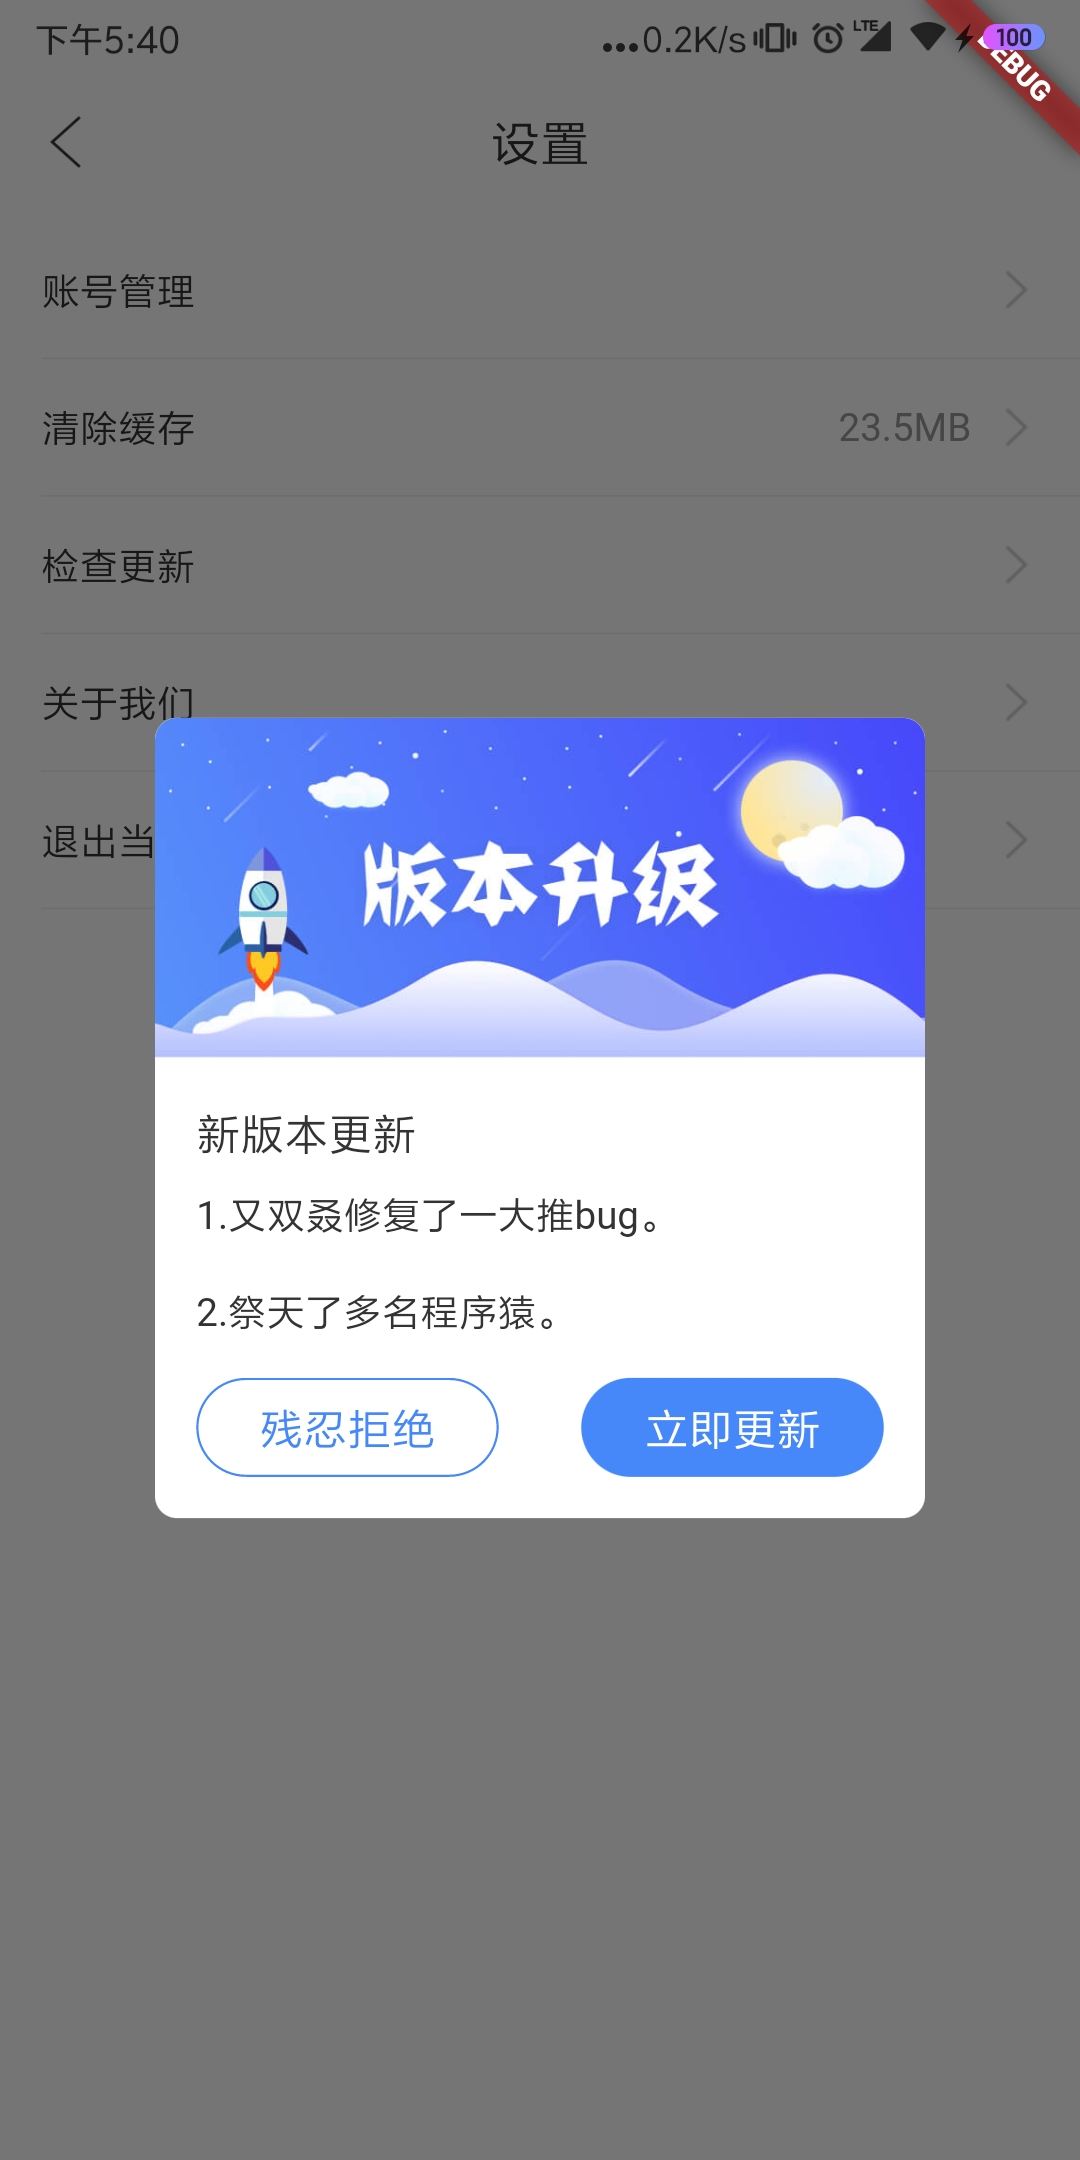
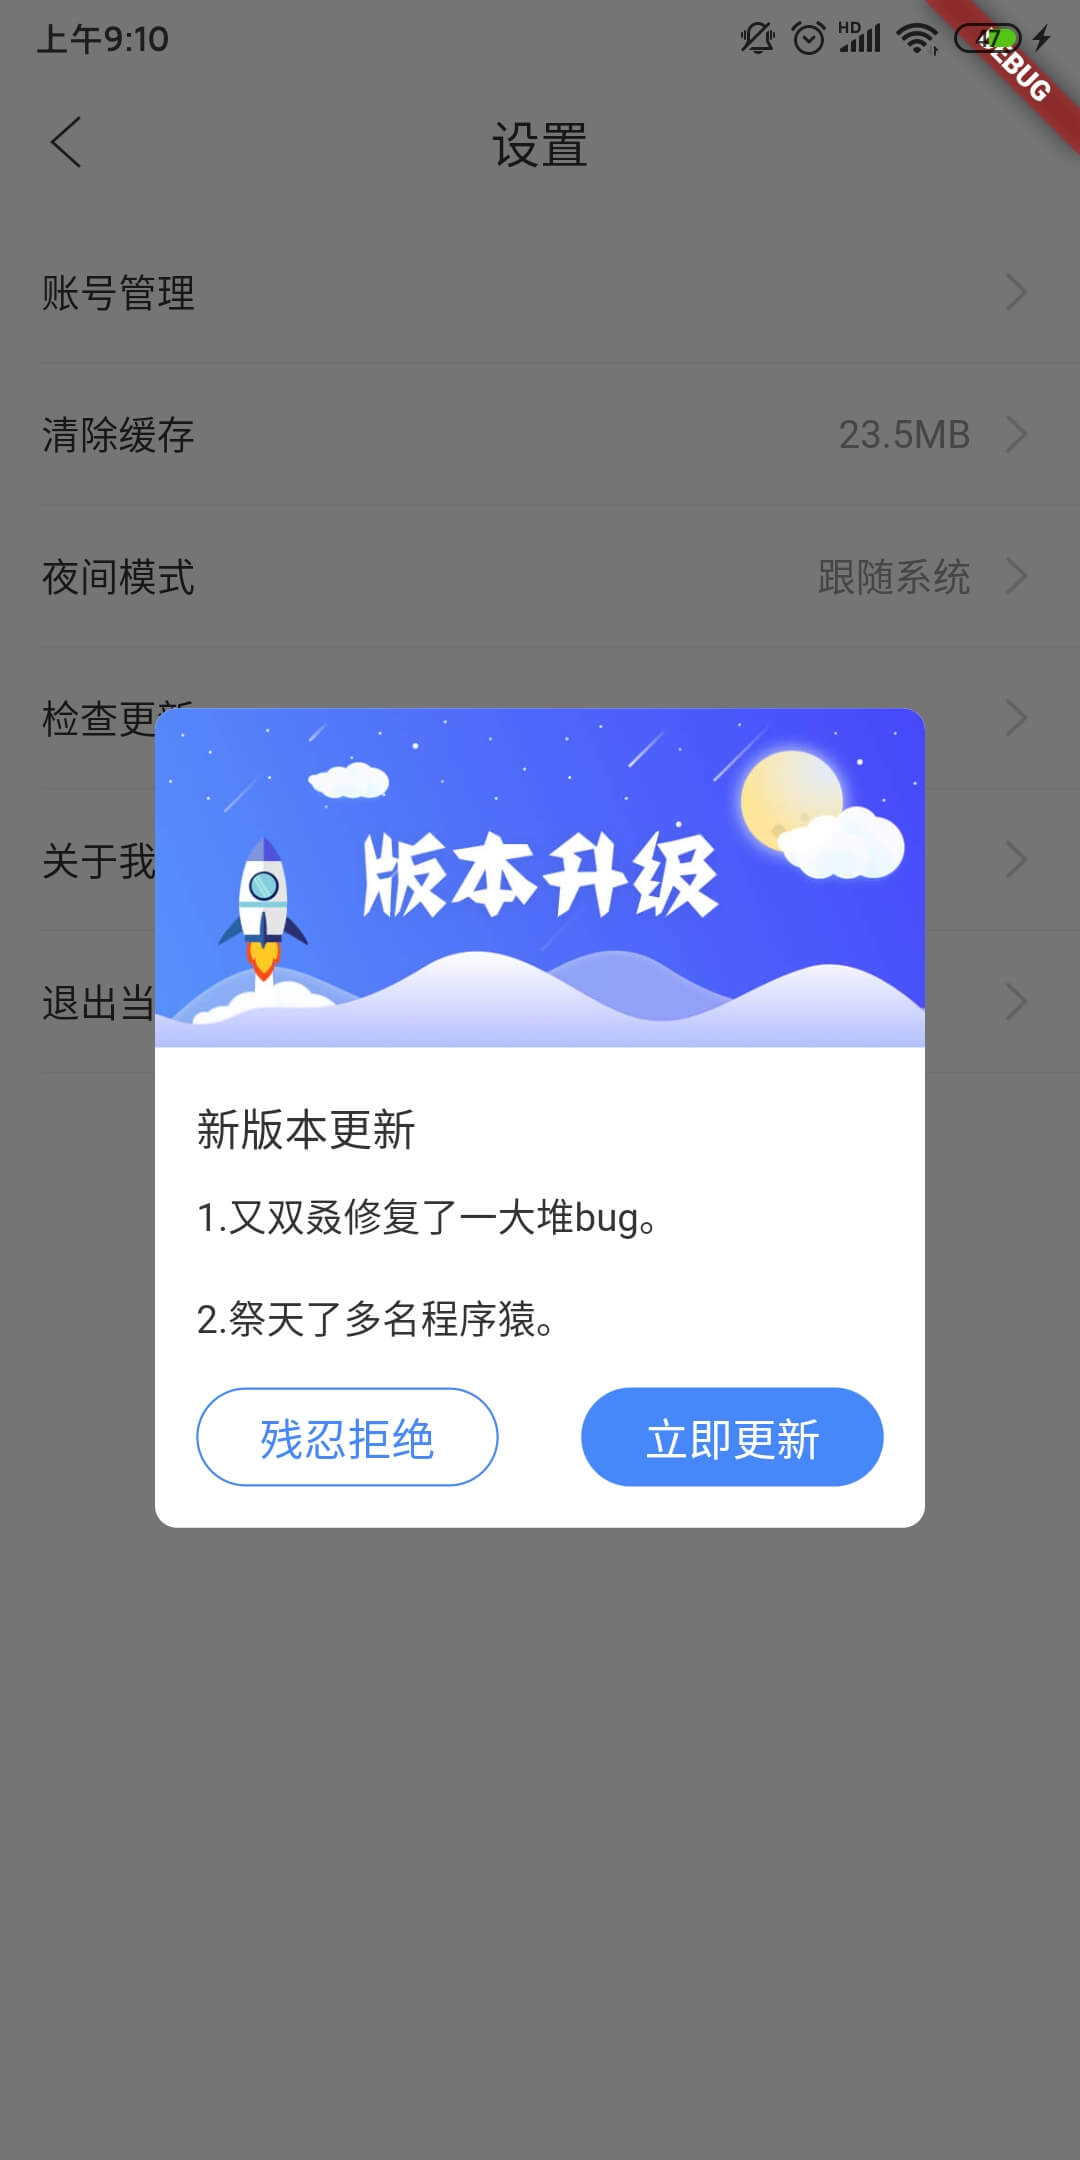
日常优化

diff --git a/lib/res/styles.dart b/lib/res/styles.dart
@@ -51,34 +51,18 @@ class TextStyles {
     fontSize: Dimens.font_sp14,
     color: Colours.text_gray,
   );
-  static const TextStyle textGray16 = const TextStyle(
-    fontSize: Dimens.font_sp16,
-    color: Colours.text_gray,
-  );
-  static const TextStyle textGrayC12 = const TextStyle(
-    fontSize: Dimens.font_sp12,
-    color: Colours.text_gray_c,
-  );
-  static const TextStyle textGrayC14 = const TextStyle(
-    fontSize: Dimens.font_sp14,
-    color: Colours.text_gray_c,
-  );
-
   static const TextStyle textWhite14 = const TextStyle(
     fontSize: Dimens.font_sp14,
     color: Colors.white,
   );
-
   static const TextStyle textWhite12 = const TextStyle(
     fontSize: Dimens.font_sp12,
     color: Colors.white,
   );
-
   static const TextStyle textDark12 = const TextStyle(
     fontSize: Dimens.font_sp12,
     color: Colours.text_dark,
   );
-
   static const TextStyle textDark14 = const TextStyle(
     fontSize: Dimens.font_sp14,
     color: Colours.text_dark,

diff --git a/lib/provider/theme_provider.dart b/lib/provider/theme_provider.dart
@@ -35,13 +35,17 @@ class ThemeProvider extends ChangeNotifier {
       brightness: isDarkMode ? Brightness.dark : Brightness.light,
       primaryColor: Colours.app_main,
       accentColor: Colours.app_main,
+      // Tab指示器颜色
       indicatorColor: Colours.app_main,
+      // 背景色
       canvasColor: isDarkMode ? Colours.dark_bg_color : Colors.white,
+      // 文字选择色（输入框复制粘贴菜单）
       textSelectionColor: Colours.app_main.withAlpha(70),
       textSelectionHandleColor: Colours.app_main,
       textTheme: TextTheme(
         // TextField输入文字颜色
         subhead: isDarkMode ? TextStyles.textWhite14 : TextStyles.textDark14,
+        // Text文字样式
         body1: isDarkMode ? TextStyles.textWhite14 : TextStyles.textDark14,
       ),
       inputDecorationTheme: InputDecorationTheme(

diff --git a/lib/order/page/order_page.dart b/lib/order/page/order_page.dart
@@ -154,10 +154,7 @@ class _OrderPageState extends State<OrderPage> with AutomaticKeepAliveClientMixi
                       controller: _tabController,
                       labelColor: Utils.isDark(context) ? Colors.white : Colours.text_dark,
                       unselectedLabelColor: Utils.isDark(context) ? Colours.text_gray : Colours.text_dark,
-                      labelStyle: const TextStyle(
-                        fontSize: Dimens.font_sp14,
-                        fontWeight: FontWeight.bold
-                      ),
+                      labelStyle: TextStyles.textBold14,
                       unselectedLabelStyle: const TextStyle(
                         fontSize: Dimens.font_sp14,
                       ),

diff --git a/lib/goods/page/goods_page.dart b/lib/goods/page/goods_page.dart
@@ -122,10 +122,7 @@ class _GoodsPageState extends State<GoodsPage> with SingleTickerProviderStateMix
                 },
                 isScrollable: true,
                 controller: _tabController,
-                labelStyle: const TextStyle(
-                    fontSize: Dimens.font_sp18,
-                    fontWeight: FontWeight.bold
-                ),
+                labelStyle: TextStyles.textBold18,
                 indicatorSize: TabBarIndicatorSize.label,
                 labelPadding: const EdgeInsets.only(left: 16.0),
                 unselectedLabelColor: Utils.isDark(context) ? Colours.text_gray : Colours.text_dark,

diff --git a/lib/setting/widgets/update_dialog.dart b/lib/setting/widgets/update_dialog.dart
@@ -71,7 +71,7 @@ class _UpdateDialogState extends State<UpdateDialog> {
                 ),
                 Padding(
                   padding: const EdgeInsets.symmetric(horizontal: 15.0, vertical: 10.0),
-                  child: Text("1.又双叒修复了一大推bug。\n\n2.祭天了多名程序猿。"),
+                  child: Text("1.又双叒修复了一大堆bug。\n\n2.祭天了多名程序猿。"),
                 ),
                 Padding(
                   padding: const EdgeInsets.only(bottom: 15.0, left: 15.0, right: 15.0 , top: 5.0),

diff --git a/lib/main.dart b/lib/main.dart
@@ -51,7 +51,7 @@ class MyApp extends StatelessWidget {
               darkTheme: provider.getTheme(isDarkMode: true),
               home: home ?? SplashPage(),
               onGenerateRoute: Application.router.generator,
-              localizationsDelegates: [
+              localizationsDelegates: const [
                 GlobalMaterialLocalizations.delegate,
                 GlobalWidgetsLocalizations.delegate,
                 GlobalCupertinoLocalizations.delegate,

diff --git a/lib/shop/page/shop_setting_page.dart b/lib/shop/page/shop_setting_page.dart
@@ -152,6 +152,7 @@ class _ShopSettingPageState extends State<ShopSettingPage> {
                       padding: const EdgeInsets.only(left: 16.0),
                       child: const Text("运费设置", style: TextStyles.textBold18),
                     ),
+                    Gaps.vGap16,
                     ClickItem(
                       title: "运费配置",
                       content: _sendType == 0 ? "运费满免配置" : "运费比例配置",

diff --git a/lib/widgets/app_bar.dart b/lib/widgets/app_bar.dart
@@ -32,6 +32,8 @@ class MyAppBar extends StatelessWidget implements PreferredSizeWidget{
 
     if (backgroundColor == null){
       _backgroundColor = Utils.getBackgroundColor(context);
+    }else{
+      _backgroundColor = backgroundColor;
     }
 
     SystemUiOverlayStyle _overlayStyle = ThemeData.estimateBrightnessForColor(_backgroundColor) == Brightness.dark

diff --git a/lib/net/dio_utils.dart b/lib/net/dio_utils.dart
@@ -158,6 +158,10 @@ class DioUtils {
   }
 
   _onError(int code, String msg, Function(int code, String mag) onError){
+    if (code == null){
+      code = ExceptionHandle.unknown_error;
+      msg = "未知异常";
+    }
     Log.e("接口请求异常： code: $code, mag: $msg");
     if (onError != null) {
       onError(code, msg);

diff --git a/lib/util/toast.dart b/lib/util/toast.dart
@@ -4,6 +4,9 @@ import 'package:oktoast/oktoast.dart';
 /// Toast工具类
 class Toast {
   static show(String msg, {duration = 2000}) {
+    if (msg == null){
+      return;
+    }
     showToast(
         msg,
         duration: Duration(milliseconds: duration),
